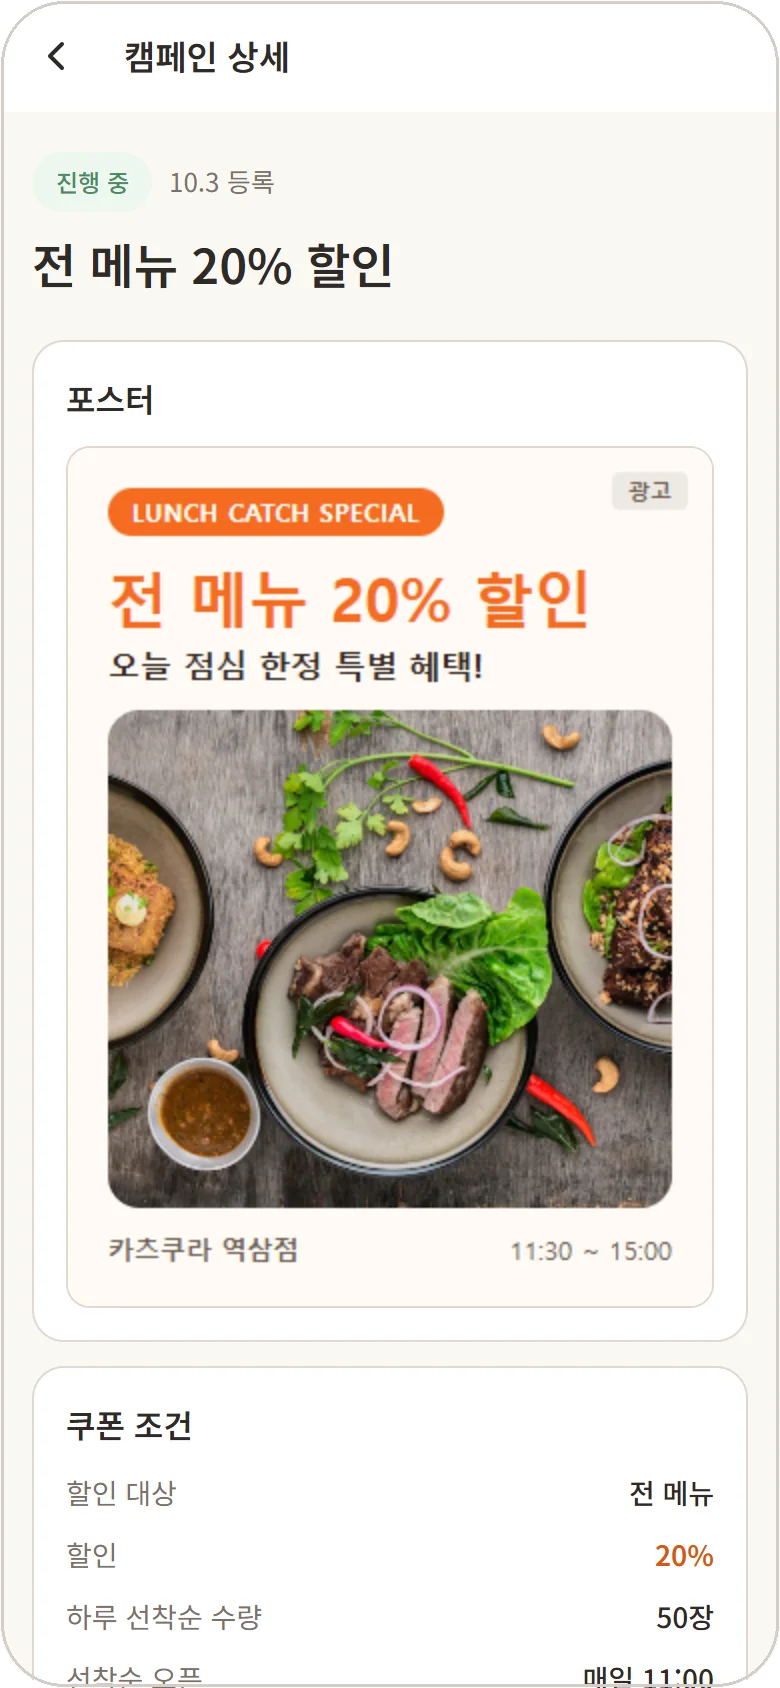
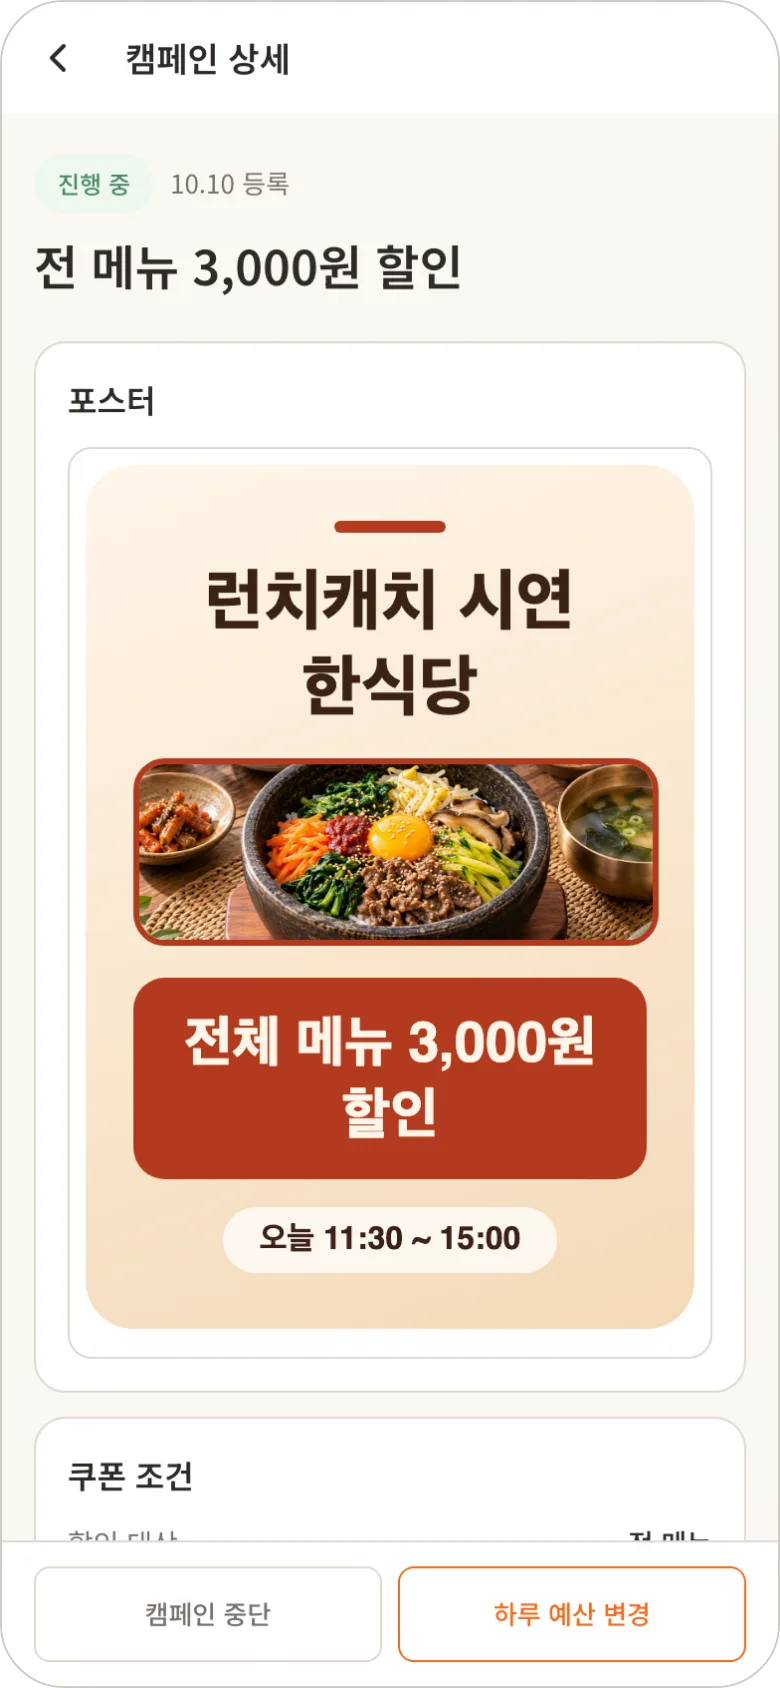
docs: owner README.md 작성 및 이미지 변경, 추가

diff --git a/apps/owner/README.md b/apps/owner/README.md
@@ -1,10 +1,44 @@
 # 🍱 런치캐치 · 점주 앱
 
-> 가게 사장님이 입점 등록을 하고, 템플릿으로 쿠폰 포스터를 만들어 점심 캠페인을 운영하는 웹
+> 가게 사장님이 입점 등록을 하고, 템플릿으로 쿠폰 포스터를 만들어 점심 캠페인을 운영하는 모바일 웹
+>
+> **입점 신청 → 템플릿으로 포스터 제작 → 포인트 충전 후 캠페인 활성화 → 노출 · 발급 · 사용 성과 확인**
 
 [← 프로젝트 README로 돌아가기](../../README.md)
 
-<!-- TODO: 주요 화면 캡처 또는 GIF, 담당자가 내용 보완 -->
+| 홈 | 캠페인 생성 | 캠페인 상세 |
+| :---: | :---: | :---: |
+| <img src="../../docs/images/owner-home.webp" alt="진행 중인 캠페인과 최근 쿠폰 사용 추이가 있는 홈" width="240" /> | <img src="../../docs/images/owner-campaign-template.webp" alt="템플릿을 고르면 가게명과 사진이 들어간 포스터 미리보기" width="240" /> | <img src="../../docs/images/owner-campaign-poster.webp" alt="템플릿으로 만든 포스터가 보이는 캠페인 상세" width="240" /> |
+
+| 입점 신청 | 캠페인 확인 | 포인트 충전 |
+| :---: | :---: | :---: |
+| <img src="../../docs/images/owner-signup.webp" alt="카카오맵으로 가게 위치를 고르는 입점 신청 3단계" width="240" /> | <img src="../../docs/images/owner-campaign-review.webp" alt="필요 포인트와 부족한 포인트를 보여주는 캠페인 확인 단계" width="240" /> | <img src="../../docs/images/owner-point-charge.webp" alt="부족한 포인트를 채울 금액이 골라진 포인트 충전 시트" width="240" /> |
+
+<br>
+
+## 목차
+
+- [서비스 규칙](#서비스-규칙)
+- [주요 화면](#주요-화면)
+- [구현 고민](#구현-고민)
+- [개선 과제](#개선-과제)
+- [실행](#실행)
+- [폴더 구조](#폴더-구조)
+
+<br>
+
+## 서비스 규칙
+
+| 규칙 | 내용 |
+| --- | --- |
+| 입점 신청 | 약관 → 가게 정보 → 위치 → 영업시간 → 가게 이미지 → 대표 메뉴 6단계. 약관 4개는 모두 필수, 로고 필수, 매장 사진과 대표 메뉴(최대 3개)는 선택 |
+| 입점 뒤 | 등록을 마치면 바로 영업 중(ACTIVE). 사진 · 메뉴는 보기만 하고, 영업시간은 바꿀 수 있음 |
+| 캠페인 수 | 끝나지 않은 캠페인(작성 중 · 대기 · 진행 · 일시중지)은 한 번에 1개 |
+| 활성화 | 포인트 잔액이 하루 예산 × 집행 일수 이상이어야 활성화 요청 가능 |
+| 하루 예산 변경 | 진행 중인 캠페인만, 바꾼 값은 다음 날 00:00부터 적용 |
+| 재개 | 점주가 직접 중단한 캠페인만 재개. 잔액 부족으로 멈춘 캠페인은 충전하면 다시 시작 |
+| 포인트 | 토스페이먼츠로 충전, 1원 = 1포인트 |
+| 쿠폰 사용 | 매장의 스캔 기기가 손님 QR을 읽어 사용 처리. 점주 앱의 QR 스캔은 시연용 임시 화면 |
 
 <br>
 
@@ -12,30 +46,92 @@
 
 | 화면 | 주소 | 설명 |
 | --- | --- | --- |
-| 로그인 · 입점 신청 | `/login`, `/signup` | 약관 동의, 가게 정보와 위치, 영업시간, 가게 이미지, 대표 메뉴 등록 |
+| 로그인 · 입점 신청 | `/login`, `/signup/*` | 약관 동의, 가게 정보, 카카오맵 위치 검색, 영업시간, 가게 이미지, 대표 메뉴 |
 | 홈 | `/home` | 진행 중인 캠페인과 최근 성과 |
-| 캠페인 | `/campaigns`, `/campaigns/ended` | 진행 중·예정 캠페인과 지난 캠페인 목록 |
-| 캠페인 등록 | `/campaigns/new` | 쿠폰 조건, 노출 대상, 하루 예산과 기간 설정, 템플릿으로 포스터 제작 |
-| 캠페인 상세 | `/campaigns/:id` | 캠페인 상태와 포스터 확인, 수정 |
-| QR 스캔 | `/qr-scan` | 손님의 쿠폰 QR을 스캔해 사용 처리 |
-| 가게 · 리포트 | `/store`, `/store/analytics` | 가게 정보와 노출 · 발급 · 사용 현황 |
+| 캠페인 | `/campaigns`, `/campaigns/ended` | 현재 캠페인과 상태별 처리(이어서 작성, 중단, 재개, 하루 예산 변경), 지난 캠페인 목록 |
+| 캠페인 등록 | `/campaigns/:id/edit/*` | 쿠폰 조건 → 포스터 → 노출 대상 → 하루 예산과 기간 → 확인 5단계, 단계마다 저장 |
+| 캠페인 상세 | `/campaigns/:id` | 캠페인 상태와 포스터 확인 |
+| 포인트 | `/points/*` | 충전, 포인트 변동 내역, 결제 내역, 환불 요청 |
+| 가게 관리 | `/store`, `/store/*` | 가게 정보, 영업시간 수정, 사진 · 메뉴 보기, 쿠폰 사용 내역 |
+| 리포트 | `/store/analytics` | 캠페인별 노출 · 발급 · 사용 현황 |
+| QR 스캔 (시연용) | `/qr-scan` | 카메라로 손님의 쿠폰 QR을 읽어 사용 처리 |
 
 <br>
 
-## 구현하며 고민한 것
+## 구현 고민
 
-<!-- TODO: 담당자 작성 -->
+### 나갔다 와도 이어지는 입점 신청
+
+입점 신청은 6단계라 중간에 나갔다 다시 오는 경우가 많음. 단계마다 서버에 저장하고, 들어올 때 저장한 값과 진행 상태를 불러와 칸을 채운 뒤 이어갈 단계로 보냄. 불러오지 못한 채 진행하면 저장한 값을 빈 값으로 덮어쓸 수 있어, 그때는 다시 시도 화면을 보여줌. 저장이 서버의 진행 상태와 맞지 않아 거절되면 진행 상태를 다시 불러와 맞는 단계로 옮김. 약관은 한 번만 동의받는 API라 약관 단계로 돌아와 다시 "다음"을 누르면 거절되는데, 이미 동의한 상태면 오류 없이 넘어가게 함. 다른 창에서 입점 신청을 이미 마쳐 "입점 신청 중이 아님"으로 거절되면, 내 정보를 다시 받아 영업 중(ACTIVE) 상태로 바꾸고 홈으로 보냄.
+
+### 결제창을 다녀와도 남는 작성 중인 캠페인
+
+캠페인 확인 단계에서 잔액이 부족하면 바로 충전하러 감. 토스 결제창이 페이지를 옮겨 앱이 처음부터 다시 그려지므로, 아직 저장하지 않은 입력값(하루 예산 등)이 사라짐. 결제하러 가기 전 작성 중인 값을 `sessionStorage`에 두고, 돌아와 같은 캠페인을 열 때 한 번만 꺼내 씀. 30분이 지난 값은 버림. 결제 승인 확정은 응답이 "아직 확정 전"이거나 오지 않을 수 있어서, 승인 요청을 다시 보내지 않고 결제 상태 조회로 약 30초 동안 확인함.
+
+### 고르면 바로 올라가는 사진
+
+사진은 API 서버를 거치지 않고 S3에 바로 올리는 presigned URL 방식. 사진을 고르는 즉시 올리기 시작해 "다음"을 누를 때 기다리지 않게 하고, 진행률을 칸에 보여줌.
+
+이 방식에서 신경 쓴 점은 **주소를 발급받는 순간 서버가 자리를 잡는다**는 것. 매장 사진은 확인하지 않은 업로드도 3장 중 한 자리를 차지해, 실패할 때마다 주소를 새로 받으면 화면의 사진이 3장보다 적어도 "3장 초과"로 거절됨. 자리는 발급한 순서대로 정해져 매장 사진은 한 장씩 차례로 올림. 로고는 발급하는 순간 기존 로고가 빠지고 가장 나중에 발급한 업로드만 확인해 줘, 다른 창에서 로고를 올렸으면 주소부터 새로 받음. 그래서 실패한 사진을 다시 시도할 때는 받은 주소를 되도록 다시 쓰고, 이미 끝낸 단계는 건너뜀.
+
+| 단계 | 하는 일 | 다시 시도할 때 |
+| --- | --- | --- |
+| 1. 줄이기 | 긴 변이 1600px보다 크면 줄임. 발급 요청에 파일 크기를 보내야 해서 발급보다 먼저 함 | 주소를 다시 쓰면 처음에 줄인 파일을 그대로 씀. 다시 줄이면 크기가 달라져 서명과 맞지 않음 |
+| 2. 업로드 주소 발급 | 파일 이름, 형식, 줄인 뒤의 크기를 보내면 10분 동안 쓸 수 있는 S3 주소를 줌. 서명에 형식과 크기가 들어가 발급 때 알린 파일만 올릴 수 있음 | 받은 지 9분이 안 됐으면 건너뜀 (올리는 도중 만료되지 않게 1분 여유). 9분이 지났거나 S3가 주소를 거절했으면(403) 새로 받음 |
+| 3. S3에 올리기 | 받은 주소로 줄인 파일을 바로 올림. API 요청(10초)보다 오래 걸려 120초까지 기다림 | 다 올렸으면 건너뜀 |
+| 4. 업로드 확인 | 서버가 S3에 올라간 파일을 확인해야 가게 · 메뉴에 사진이 붙음. 포스터 이미지는 이 단계 없이 받은 객체 키를 포스터 저장에 보냄 | 다시 부름 |
+
+로컬에서는 S3 버킷의 CORS가 localhost를 막아 Vite 프록시(`/s3-upload`)를 거쳐 올림.
+
+### 그 밖의 고민
+
+| 주제 | 문제 | 선택 |
+| --- | --- | --- |
+| 활성화 전 잔액 확인 | 서버는 활성화할 때 잔액을 검사하지 않아, 잔액이 모자라도 요청이 통과됨 | 확인 단계에 들어올 때마다 잔액을 새로 불러와, 모르거나(불러오는 중 · 실패) 모자라면 버튼을 막고 부족한 포인트를 안내 |
+| 캠페인 1개 제한 | 끝나지 않은 캠페인이 있으면 서버가 새 캠페인을 거절하고, 작성 중인 캠페인이 있으면 그 값을 덮어씀 | 새 캠페인을 시작할 때 목록을 먼저 확인해, 작성 중인 캠페인은 이어서 쓰고 진행 중인 캠페인이 있으면 미리 안내 |
+| 포스터 미리보기 | 관리자가 LLM으로 만든 HTML이라 스크립트와 링크 이동이 가능하고, 내용을 바꿀 때마다 브라우저 방문 기록이 쌓여 뒤로 가기가 미리보기를 되돌림 | 비어 있는 `sandbox` iframe으로 그리고, 내용이 바뀌면 iframe을 새로 만듦. 작게 보여줄 때는 360px 기준으로 그린 뒤 줄임 |
+| 로그인 유지 | 여러 요청이 동시에 401을 받으면 재발급이 겹침. 서버는 토큰을 바꾼 뒤 10초까지만 직전 Refresh Token을 받아 주고, 그 뒤에 오면 재사용으로 보고 로그인을 끊음 | 재발급은 진행 중인 요청 하나를 모두가 함께 기다리고, 끝나면 실패한 요청을 한 번 더 보냄. 재발급 전에 보낸 요청이 늦게 401을 받으면 재발급 없이 바뀐 쿠키로 다시 보내기만 함. 재발급이 503이거나 응답이 없으면 서버가 이미 토큰을 바꿨는지 알 수 없어, 같은 토큰으로 다시 보내지 않고 오류를 보여줌 |
+
+<details>
+<summary><b>더 보기</b></summary>
+
+<br>
+
+- **요청 시간 제한**: 서버가 연결만 받고 응답하지 않으면 앱 시작 시 내 정보 조회가 끝나지 않아 빈 화면이 계속됨. 모든 요청을 10초 뒤 끊음
+- **요청 제한(429)**: 서버가 남은 시간을 초 단위로 내림해 주므로, 받은 시간보다 1초 더 기다린 뒤 다시 보냄
+- **QR 사용 처리 문구**: 사장님이 계산대에서 손님에게 바로 말할 수 있는 문구로 실패 사유를 안내. 응답을 받지 못했으면 손님이 QR을 다시 띄우지 않아도 같은 QR로 다시 보냄
+
+</details>
+
+<br>
+
+## 개선 과제
+
+- **매장 스캔 기기 연동**: 지금 점주 앱의 QR 스캔은 시연용 임시 화면. 실제 사용 처리는 매장 스캔 기기에서 함
+- **약관 · 플랫폼 설정값 연동**: 약관 본문과 최소 하루 예산은 받아 올 API가 없어 앱 안에 고정값(`api/mocks`)으로 둠
+- **바꾼 하루 예산 표시**: 서버가 다음 날 적용될 하루 예산을 주지 않아 캠페인 상세에서 볼 수 없고, 바꾼 직후 안내만 보여줌
+- **페이지 지연 로딩**: 모든 화면을 한 번에 불러오고 있어 경로별로 나눠 받는 작업이 필요
 
 <br>
 
 ## 실행
 
 - 루트 폴더에서 실행
-- 설치와 환경 변수: [포팅 매뉴얼](../../README.md#포팅-매뉴얼)
+- 설치와 공통 환경 변수: [포팅 매뉴얼](../../README.md#포팅-매뉴얼)
+- 기술 스택: React 19, TypeScript, Vite, React Router, Tailwind CSS v4, 카카오 지도, 토스페이먼츠 결제위젯
 
 ```bash
 pnpm dev:owner   # http://localhost:5174
 ```
+
+`apps/owner/.env.local`에 넣는 값 (설명은 [.env.example](.env.example))
+
+| 변수 | 내용 |
+| --- | --- |
+| `API_PROXY_TARGET` | 로컬 Vite 프록시가 요청을 넘길 API 서버. 비우면 `http://localhost:8080` |
+| `VITE_KAKAO_JS_KEY` | 입점 신청 위치 검색용 카카오 지도 키. 카카오에 등록한 도메인(`localhost:5174` 등)에서만 동작 |
+| `VITE_TOSS_CLIENT_KEY` | 포인트 충전 결제위젯 클라이언트 키. 시크릿 키는 백엔드에만 둠 |
+| `VITE_MOCK_OWNER_STATUS` | `ACTIVE` 또는 `ONBOARDING`을 넣으면 서버에 묻지 않고 그 상태로 로그인한 것으로 봄. 로컬 개발에서만 읽음 |
 
 <br>
 
@@ -47,12 +143,18 @@ src/
 ├── pages/          # 주소 하나에 대응하는 화면
 ├── features/
 │   ├── login/          # 점주 로그인
-│   ├── signup/         # 입점 신청 단계
-│   ├── home/           # 홈 대시보드
-│   └── campaign/       # 캠페인 목록, 등록, 상세, 포스터 미리보기
+│   ├── signup/         # 입점 신청 6단계
+│   ├── home/           # 홈 대시보드, 첫 방문 안내
+│   ├── campaign/       # 캠페인 목록, 등록 단계, 상세, 상태별 처리, 포스터 미리보기
+│   ├── points/         # 포인트 충전(토스), 변동 · 결제 내역, 환불
+│   ├── store/          # 가게 관리
+│   ├── couponUsage/    # 쿠폰 사용 내역
+│   ├── analytics/      # 리포트
+│   ├── qrScan/         # QR 스캔 (시연용)
+│   └── routeNotice/    # 없는 주소 · 오류 화면
 ├── ui/             # 여러 기능이 함께 쓰는 컴포넌트
 ├── hooks/          # 여러 기능이 함께 쓰는 훅
 ├── layout/         # 화면 틀
-├── api/            # 서버 요청 함수와 mock 데이터
+├── api/            # 서버 요청 함수와 고정값(mocks)
 └── auth/           # 로그인 상태와 접근 제어
 ```
